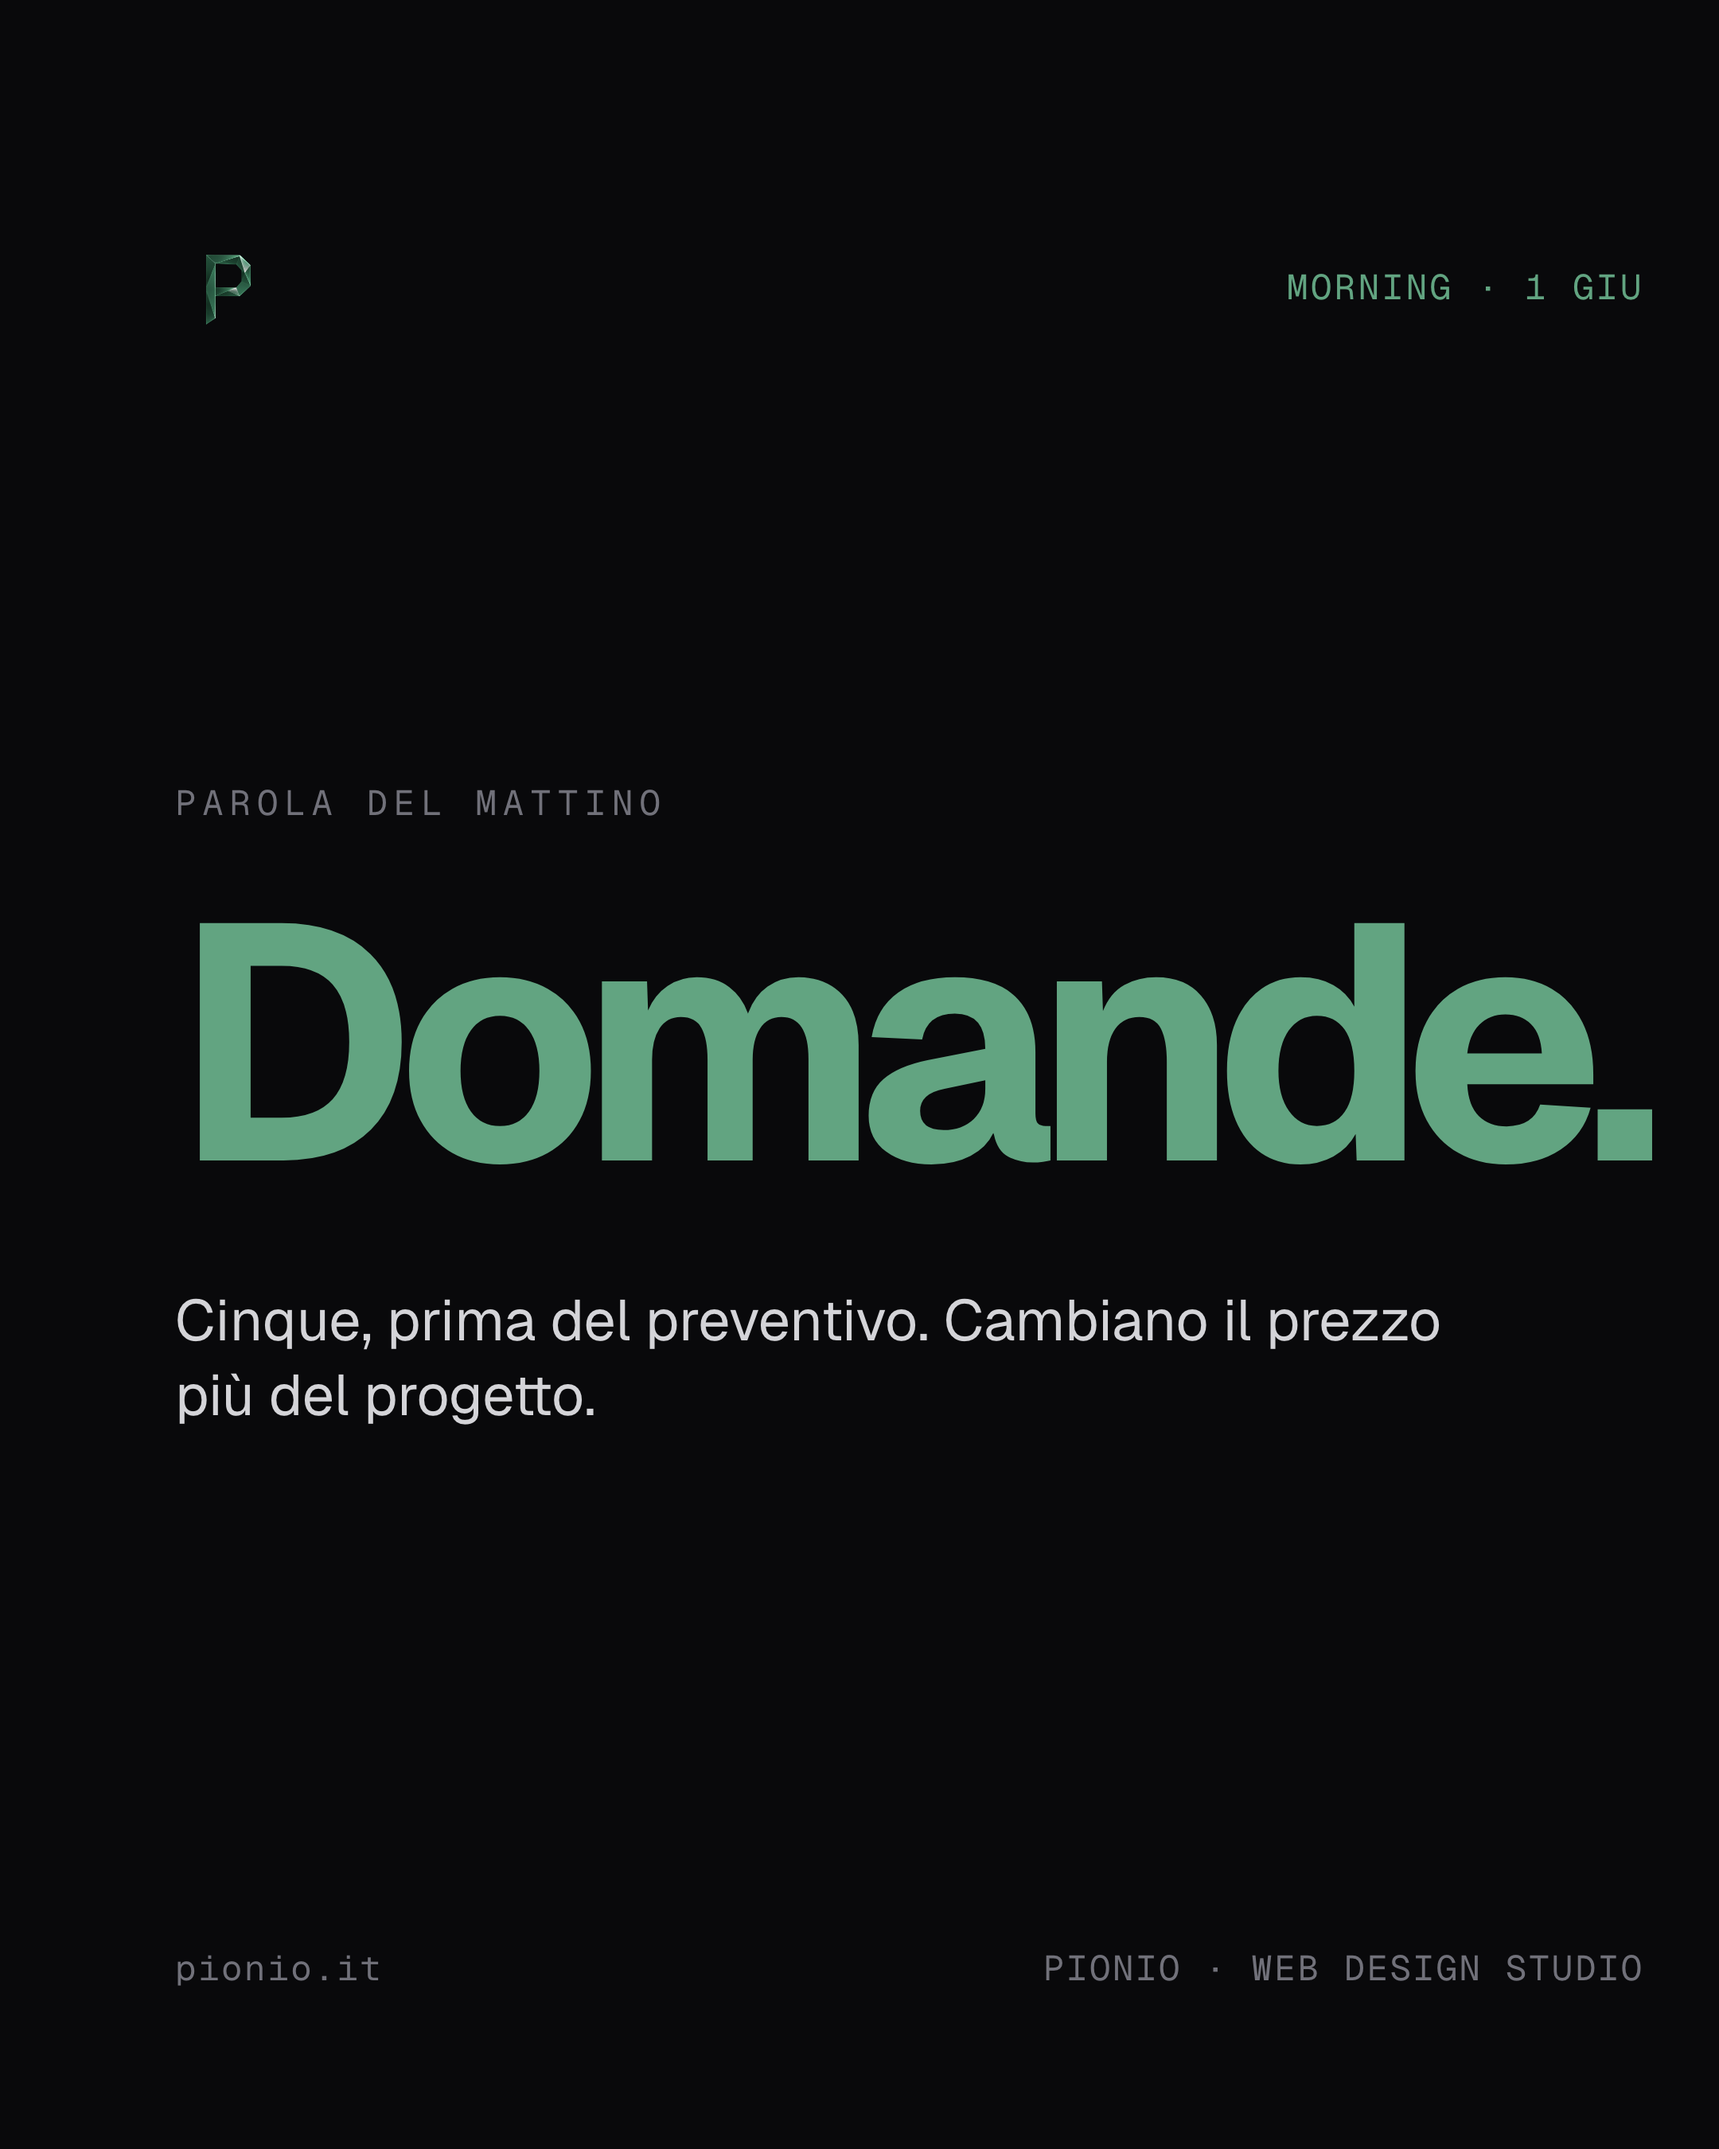
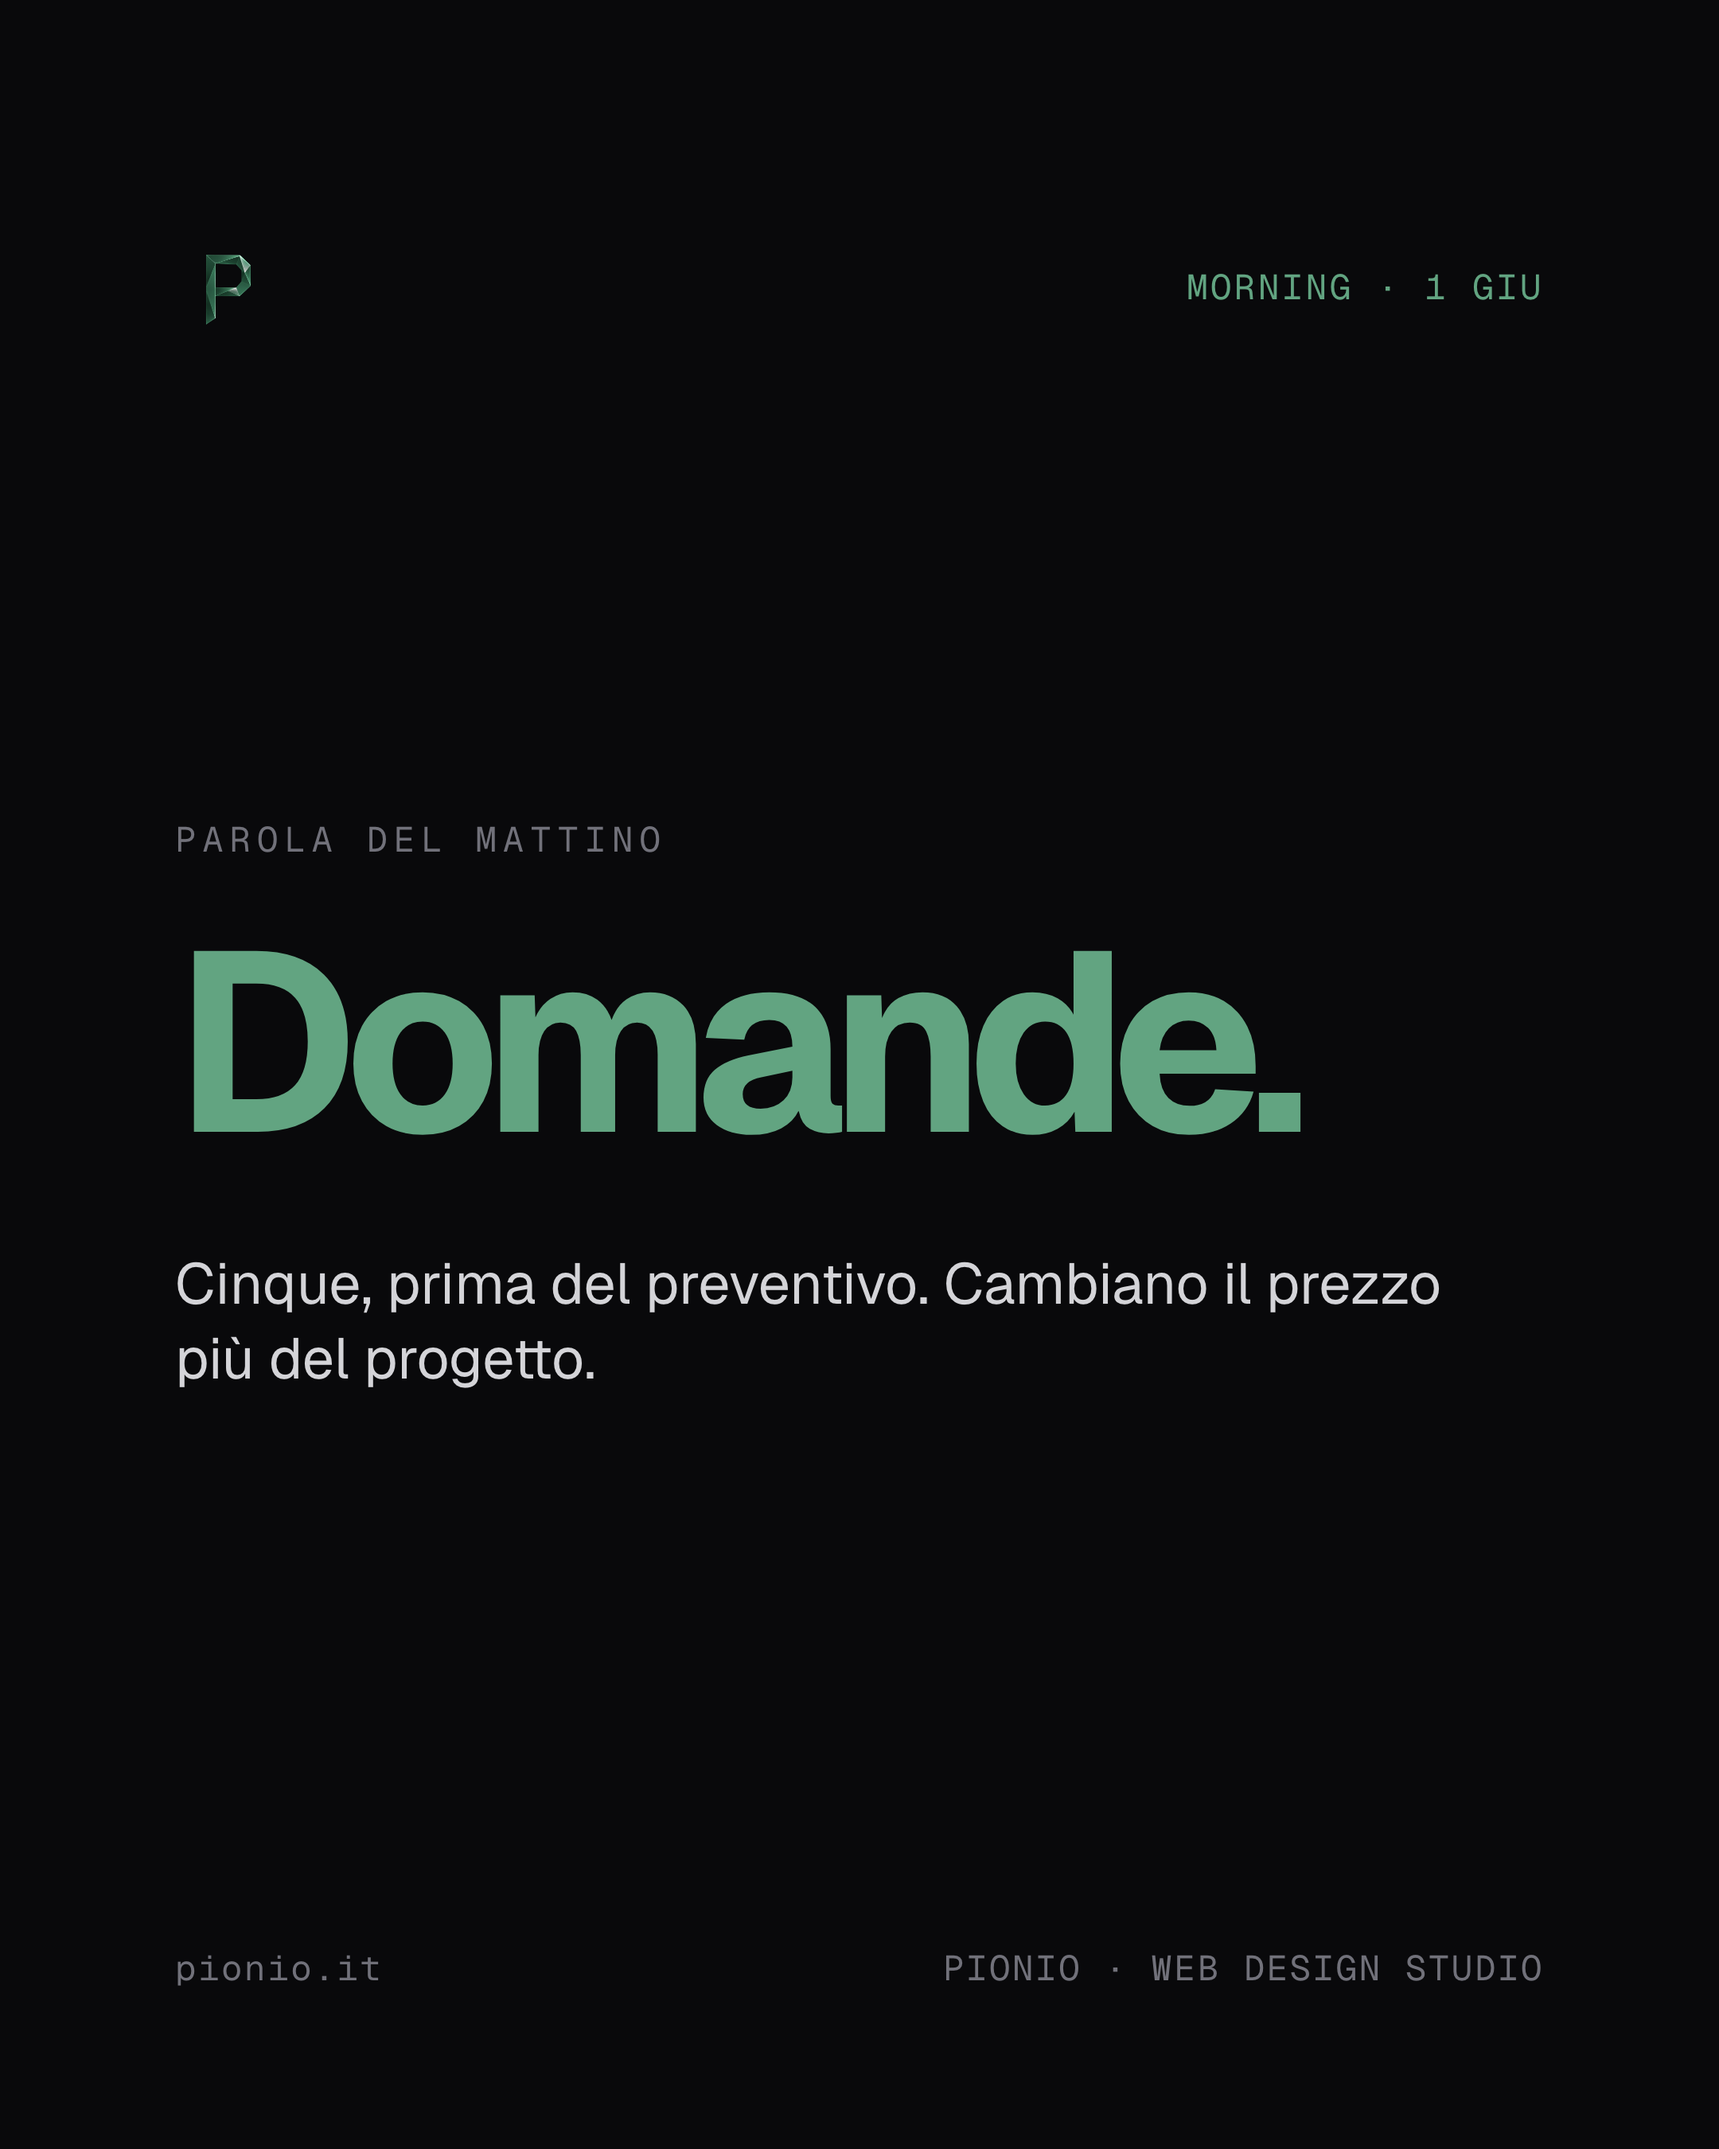
fix(morning): font-sizes ulteriormente ridotti — 4ch=240, 6ch=200, 8ch=160, 11ch=135, 12+ch=115

diff --git a/instagram/content/_morning_gen.py b/instagram/content/_morning_gen.py
@@ -1,0 +1,209 @@
+#!/usr/bin/env python3
+"""
+Generatore Morning 8:30 posts.
+Crea slides.html + render.cjs + caption.txt per ogni post Morning.
+Per le image: aggiunge anche brief-prompt.md.
+
+Usa: python3 _morning-gen.py <settimana-folder>
+Configurazione: edit MORNING_POSTS array in fondo.
+"""
+
+import os
+import sys
+
+POSTER_HTML_TEMPLATE = '''<!doctype html>
+<html lang="it">
+<head>
+<meta charset="utf-8" />
+<title>Pionio · Morning Word · {date_label}</title>
+<style>
+  @font-face {{ font-family: "Geist"; src: url("../../../../../brand-assets/fonts/Geist-Regular.ttf") format("truetype"); font-weight: 400; }}
+  @font-face {{ font-family: "Geist"; src: url("../../../../../brand-assets/fonts/Geist-Medium.ttf") format("truetype"); font-weight: 500; }}
+  @font-face {{ font-family: "Geist"; src: url("../../../../../brand-assets/fonts/Geist-Bold.ttf") format("truetype"); font-weight: 700; }}
+  @font-face {{ font-family: "Geist Mono"; src: url("../../../../../brand-assets/fonts/GeistMono-Regular.ttf") format("truetype"); font-weight: 400; }}
+  :root {{ --bg: #09090b; --text: #fafafa; --muted: #d4d4d8; --muted-dim: #71717a; --accent: #62a481; }}
+  * {{ box-sizing: border-box; margin: 0; padding: 0; }}
+  html, body {{ background: var(--bg); margin: 0; padding: 0; }}
+  body {{ font-family: "Geist", system-ui, sans-serif; color: var(--text); -webkit-font-smoothing: antialiased; text-rendering: geometricPrecision; }}
+  .slide {{ width: 1080px; height: 1350px; background: var(--bg); position: relative; overflow: hidden; display: grid; grid-template-rows: 160px 1fr 120px; padding: 100px 110px; margin: 0 auto; }}
+  .header {{ display: flex; align-items: center; justify-content: space-between; }}
+  .logo {{ width: 64px; height: 64px; }}
+  .logo img {{ width: 100%; height: 100%; object-fit: contain; }}
+  .eyebrow {{ font-family: "Geist Mono", monospace; font-weight: 400; font-size: 22px; color: var(--accent); letter-spacing: 0.08em; text-transform: uppercase; }}
+  .footer {{ display: flex; align-items: flex-end; justify-content: space-between; }}
+  .footer-url, .footer-tag {{ font-family: "Geist Mono", monospace; font-size: 22px; color: var(--muted-dim); letter-spacing: 0.06em; }}
+  .main {{ display: flex; flex-direction: column; justify-content: center; align-items: flex-start; gap: 40px; }}
+  .word-kicker {{ font-family: "Geist Mono", monospace; font-size: 22px; color: var(--muted-dim); letter-spacing: 0.18em; text-transform: uppercase; }}
+  .word-big {{ font-family: "Geist", sans-serif; font-weight: 700; font-size: {word_size}px; line-height: 0.92; letter-spacing: -0.06em; color: var(--accent); }}
+  .word-sub {{ font-family: "Geist", sans-serif; font-weight: 400; font-size: 36px; line-height: 1.3; color: var(--muted); max-width: 820px; margin-top: 16px; }}
+</style>
+</head>
+<body data-gramm="false">
+
+<section class="slide" id="s1">
+  <div class="header">
+    <div class="logo"><img src="../../../../../design-system/assets/pionio-p-mark.png" alt="P"></div>
+    <div class="eyebrow">MORNING · {date_label}</div>
+  </div>
+
+  <div class="main">
+    <div class="word-kicker">PAROLA DEL MATTINO</div>
+    <h1 class="word-big">{word_capitalized}.</h1>
+    <p class="word-sub">{sub}</p>
+  </div>
+
+  <div class="footer">
+    <div class="footer-url">pionio.it</div>
+    <div class="footer-tag">PIONIO · WEB DESIGN STUDIO</div>
+  </div>
+</section>
+
+</body>
+</html>
+'''
+
+IMAGE_HTML_TEMPLATE = '''<!doctype html>
+<html lang="it">
+<head>
+<meta charset="utf-8" />
+<title>Pionio · Morning Image · {date_label}</title>
+<style>
+  @font-face {{ font-family: "Geist"; src: url("../../../../../brand-assets/fonts/Geist-Regular.ttf") format("truetype"); font-weight: 400; }}
+  @font-face {{ font-family: "Geist"; src: url("../../../../../brand-assets/fonts/Geist-Medium.ttf") format("truetype"); font-weight: 500; }}
+  @font-face {{ font-family: "Geist"; src: url("../../../../../brand-assets/fonts/Geist-Bold.ttf") format("truetype"); font-weight: 700; }}
+  @font-face {{ font-family: "Geist Mono"; src: url("../../../../../brand-assets/fonts/GeistMono-Regular.ttf") format("truetype"); font-weight: 400; }}
+  :root {{ --bg: #09090b; --text: #fafafa; --muted: #d4d4d8; --muted-dim: #71717a; --accent: #62a481; }}
+  * {{ box-sizing: border-box; margin: 0; padding: 0; }}
+  html, body {{ background: var(--bg); margin: 0; padding: 0; overflow: hidden; }}
+  .slide {{ width: 1080px; height: 1350px; background: var(--bg); position: relative; overflow: hidden; }}
+  .morning-img {{ position: absolute; inset: 0; width: 100%; height: 100%; object-fit: cover; object-position: center; display: block; opacity: 0.65; }}
+  .morning-overlay {{ position: absolute; inset: 0; background: linear-gradient(180deg, rgba(9,9,11,0.55) 0%, rgba(9,9,11,0.4) 50%, rgba(9,9,11,0.85) 100%); }}
+  .header {{ position: absolute; top: 100px; left: 110px; right: 110px; display: flex; align-items: center; justify-content: space-between; z-index: 3; }}
+  .logo {{ width: 64px; height: 64px; }}
+  .logo img {{ width: 100%; height: 100%; object-fit: contain; }}
+  .eyebrow {{ font-family: "Geist Mono", monospace; font-weight: 400; font-size: 22px; color: var(--accent); letter-spacing: 0.08em; text-transform: uppercase; text-shadow: 0 2px 8px rgba(0,0,0,0.6); }}
+  .main {{ position: absolute; left: 110px; right: 110px; top: 50%; transform: translateY(-50%); z-index: 3; display: flex; flex-direction: column; align-items: flex-start; gap: 32px; }}
+  .word-kicker {{ font-family: "Geist Mono", monospace; font-size: 22px; color: var(--text); letter-spacing: 0.18em; text-transform: uppercase; opacity: 0.78; text-shadow: 0 2px 8px rgba(0,0,0,0.6); }}
+  .word-big {{ font-family: "Geist", sans-serif; font-weight: 700; font-size: {word_size}px; line-height: 0.92; letter-spacing: -0.05em; color: var(--text); text-shadow: 0 4px 20px rgba(0,0,0,0.7); }}
+  .word-sub {{ font-family: "Geist", sans-serif; font-weight: 400; font-size: 32px; line-height: 1.3; color: var(--text); max-width: 760px; opacity: 0.88; text-shadow: 0 2px 12px rgba(0,0,0,0.7); }}
+  .footer {{ position: absolute; left: 110px; right: 110px; bottom: 100px; display: flex; align-items: flex-end; justify-content: space-between; z-index: 3; }}
+  .footer-url, .footer-tag {{ font-family: "Geist Mono", monospace; font-size: 22px; color: var(--muted); letter-spacing: 0.06em; text-shadow: 0 2px 8px rgba(0,0,0,0.6); }}
+</style>
+</head>
+<body data-gramm="false">
+
+<section class="slide" id="s1">
+  <img class="morning-img" src="../assets/morning-raw.png" alt="" onerror="this.style.display='none'">
+  <div class="morning-overlay"></div>
+
+  <div class="header">
+    <div class="logo"><img src="../../../../../design-system/assets/pionio-p-mark.png" alt="P"></div>
+    <div class="eyebrow">MORNING · {date_label}</div>
+  </div>
+
+  <div class="main">
+    <div class="word-kicker">PAROLA DEL MATTINO</div>
+    <h1 class="word-big">{word_capitalized}.</h1>
+    <p class="word-sub">{sub}</p>
+  </div>
+
+  <div class="footer">
+    <div class="footer-url">pionio.it</div>
+    <div class="footer-tag">PIONIO · WEB DESIGN STUDIO</div>
+  </div>
+</section>
+
+</body>
+</html>
+'''
+
+RENDER_CJS = '''const {{ chromium }} = require('playwright');
+const path = require('path');
+{asset_check}
+(async () => {{
+  const browser = await chromium.launch({{ args: ['--font-render-hinting=none'] }});
+  const ctx = await browser.newContext({{ viewport: {{ width: 1080, height: 1350 }}, deviceScaleFactor: 2 }});
+  const page = await ctx.newPage();
+  await page.goto('file://' + path.resolve(__dirname, 'slides.html'), {{ waitUntil: 'networkidle' }});
+  await page.evaluate(() => document.fonts.ready);
+  await page.screenshot({{ path: path.join(__dirname, '..', 'out', 'morning.png'), clip: {{ x: 0, y: 0, width: 1080, height: 1350 }} }});
+  console.log('OK morning.png');
+  await browser.close();
+}})();
+'''
+
+IMAGE_ASSET_CHECK = '''const fs = require('fs');
+const ASSET = path.resolve(__dirname, '..', 'assets', 'morning-raw.png');
+if (!fs.existsSync(ASSET)) {{
+  console.warn('⚠  Manca assets/morning-raw.png — vedi brief-prompt.md');
+}}
+'''
+
+
+def word_size(word: str) -> int:
+    """Font-size dinamico — molto conservativo per stare sempre nei 860px disponibili."""
+    n = len(word)
+    if n <= 4: return 240
+    if n <= 6: return 200
+    if n <= 8: return 160
+    if n <= 11: return 135
+    return 115
+
+
+def generate_post(week_dir: str, post: dict):
+    folder = post["folder"]
+    fmt = post["fmt"]  # 'P' o 'I'
+    word = post["word"]
+    sub = post["sub"]
+    date_label = post["date_label"]
+    caption_body = post["caption"]
+
+    base = os.path.join(week_dir, folder)
+    src = os.path.join(base, "src")
+    os.makedirs(src, exist_ok=True)
+    os.makedirs(os.path.join(base, "out"), exist_ok=True)
+    if fmt == "I":
+        os.makedirs(os.path.join(base, "assets"), exist_ok=True)
+
+    template = IMAGE_HTML_TEMPLATE if fmt == "I" else POSTER_HTML_TEMPLATE
+    html = template.format(
+        date_label=date_label,
+        word_capitalized=word.capitalize(),
+        sub=sub,
+        word_size=word_size(word),
+    )
+    with open(os.path.join(src, "slides.html"), "w") as f:
+        f.write(html)
+
+    asset_check = IMAGE_ASSET_CHECK if fmt == "I" else ""
+    with open(os.path.join(src, "render.cjs"), "w") as f:
+        f.write(RENDER_CJS.format(asset_check=asset_check))
+
+    with open(os.path.join(base, "caption.txt"), "w") as f:
+        f.write(caption_body + "\n\npionio.it\n")
+
+    if fmt == "I":
+        prompt_path = post.get("ai_prompt", "TBD prompt")
+        with open(os.path.join(base, "brief-prompt.md"), "w") as f:
+            f.write(f"""# Morning Image · {date_label}
+
+Foto editoriale con overlay parola "{word}".
+
+## Prompt AI (ChatGPT / Nano Banana / DALL-E)
+
+```
+{prompt_path}
+```
+
+## Pipeline
+
+1. Genera 3-4 varianti
+2. Salva PNG in `assets/morning-raw.png`
+3. `node src/render.cjs`
+""")
+
+    print(f"  ✓ {folder} ({fmt})")
+
+
+if __name__ == "__main__":
+    print("Use this module by importing generate_post(week_dir, post_dict)")
